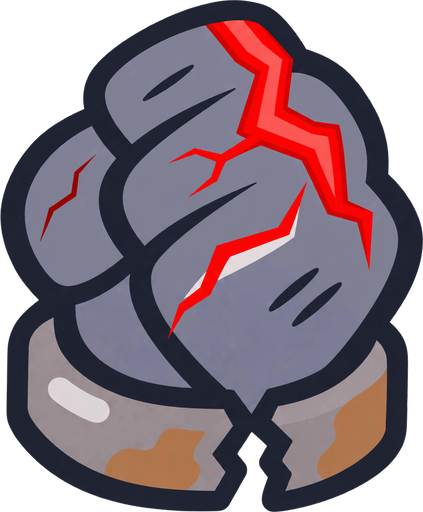
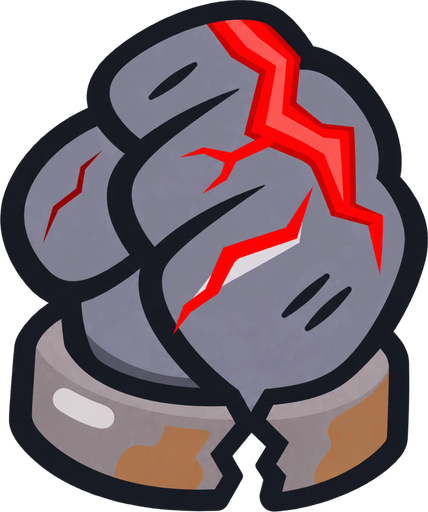
El Desencadenado: nuevas piezas de mano izquierda y derecha
Claude-Session: https://claude.ai/code/session_01JNP7QCwsBCjLSMGndzwo2W

diff --git a/prototipos/escena/index.html b/prototipos/escena/index.html
@@ -422,7 +422,7 @@ class Unit {
       };
       this.chB = mk(); this.chF = mk();
       this.body = sc.add.image(0, 0, 'de_cuerpo').setOrigin(0.5, 1).setScale(H / 512);
-      this.bh = sc.add.image(0, 0, 'de_mano').setFlipX(true).setFlipY(true).setScale(0.332 * H / 512);   // puño derecho del personaje, dedos hacia dentro
+      this.bh = sc.add.image(0, 0, 'de_mano_der').setScale(0.332 * H / 512);   // puño derecho del personaje
       this.fh = sc.add.image(0, 0, 'de_mano').setScale(0.332 * H / 512);
       this.parts = [this.bh, this.body, this.fh];
       this.rig.add([this.chB.g, this.bh, this.body, this.chF.g, this.fh]);
@@ -2152,7 +2152,7 @@ function start() {
       L('kf_torso', 'kungfu_torso'); L('kf_torso_esp', 'kungfu_torso_espalda');
       ['tumba1', 'tumba2', 'tumba3'].forEach(k => { L(k, k); L(k + '_rota', k + '_rota'); });
       L('esq_cuerpo', 'esqueleto_cuerpo'); L('esq_arma', 'esqueleto_arma'); L('esq_mano', 'esqueleto_mano');
-      L('de_cuerpo', 'desencadenado_cuerpo'); L('de_mano', 'desencadenado_mano'); L('de_eslabon', 'desencadenado_eslabon'); L('de_punta', 'desencadenado_punta');
+      L('de_cuerpo', 'desencadenado_cuerpo'); L('de_mano', 'desencadenado_mano'); L('de_mano_der', 'desencadenado_mano_der'); L('de_eslabon', 'desencadenado_eslabon'); L('de_punta', 'desencadenado_punta');
       L('ce_cuerpo', 'centinela_cuerpo'); L('ce_cuerpo_v', 'centinela_cuerpo_verde'); L('ce_arma', 'centinela_arma'); L('ce_rifle', 'centinela_rifle'); L('ce_mano', 'centinela_mano');
       L('ca_cuerpo', 'catapulta_cuerpo'); L('ca_arma', 'catapulta_arma'); L('ca_rueda', 'catapulta_rueda'); L('ca_roca', 'catapulta_roca');
       L('fr_cuerpo', 'fraile_cuerpo'); L('fr_arma', 'fraile_arma'); L('fr_mano', 'fraile_mano');
